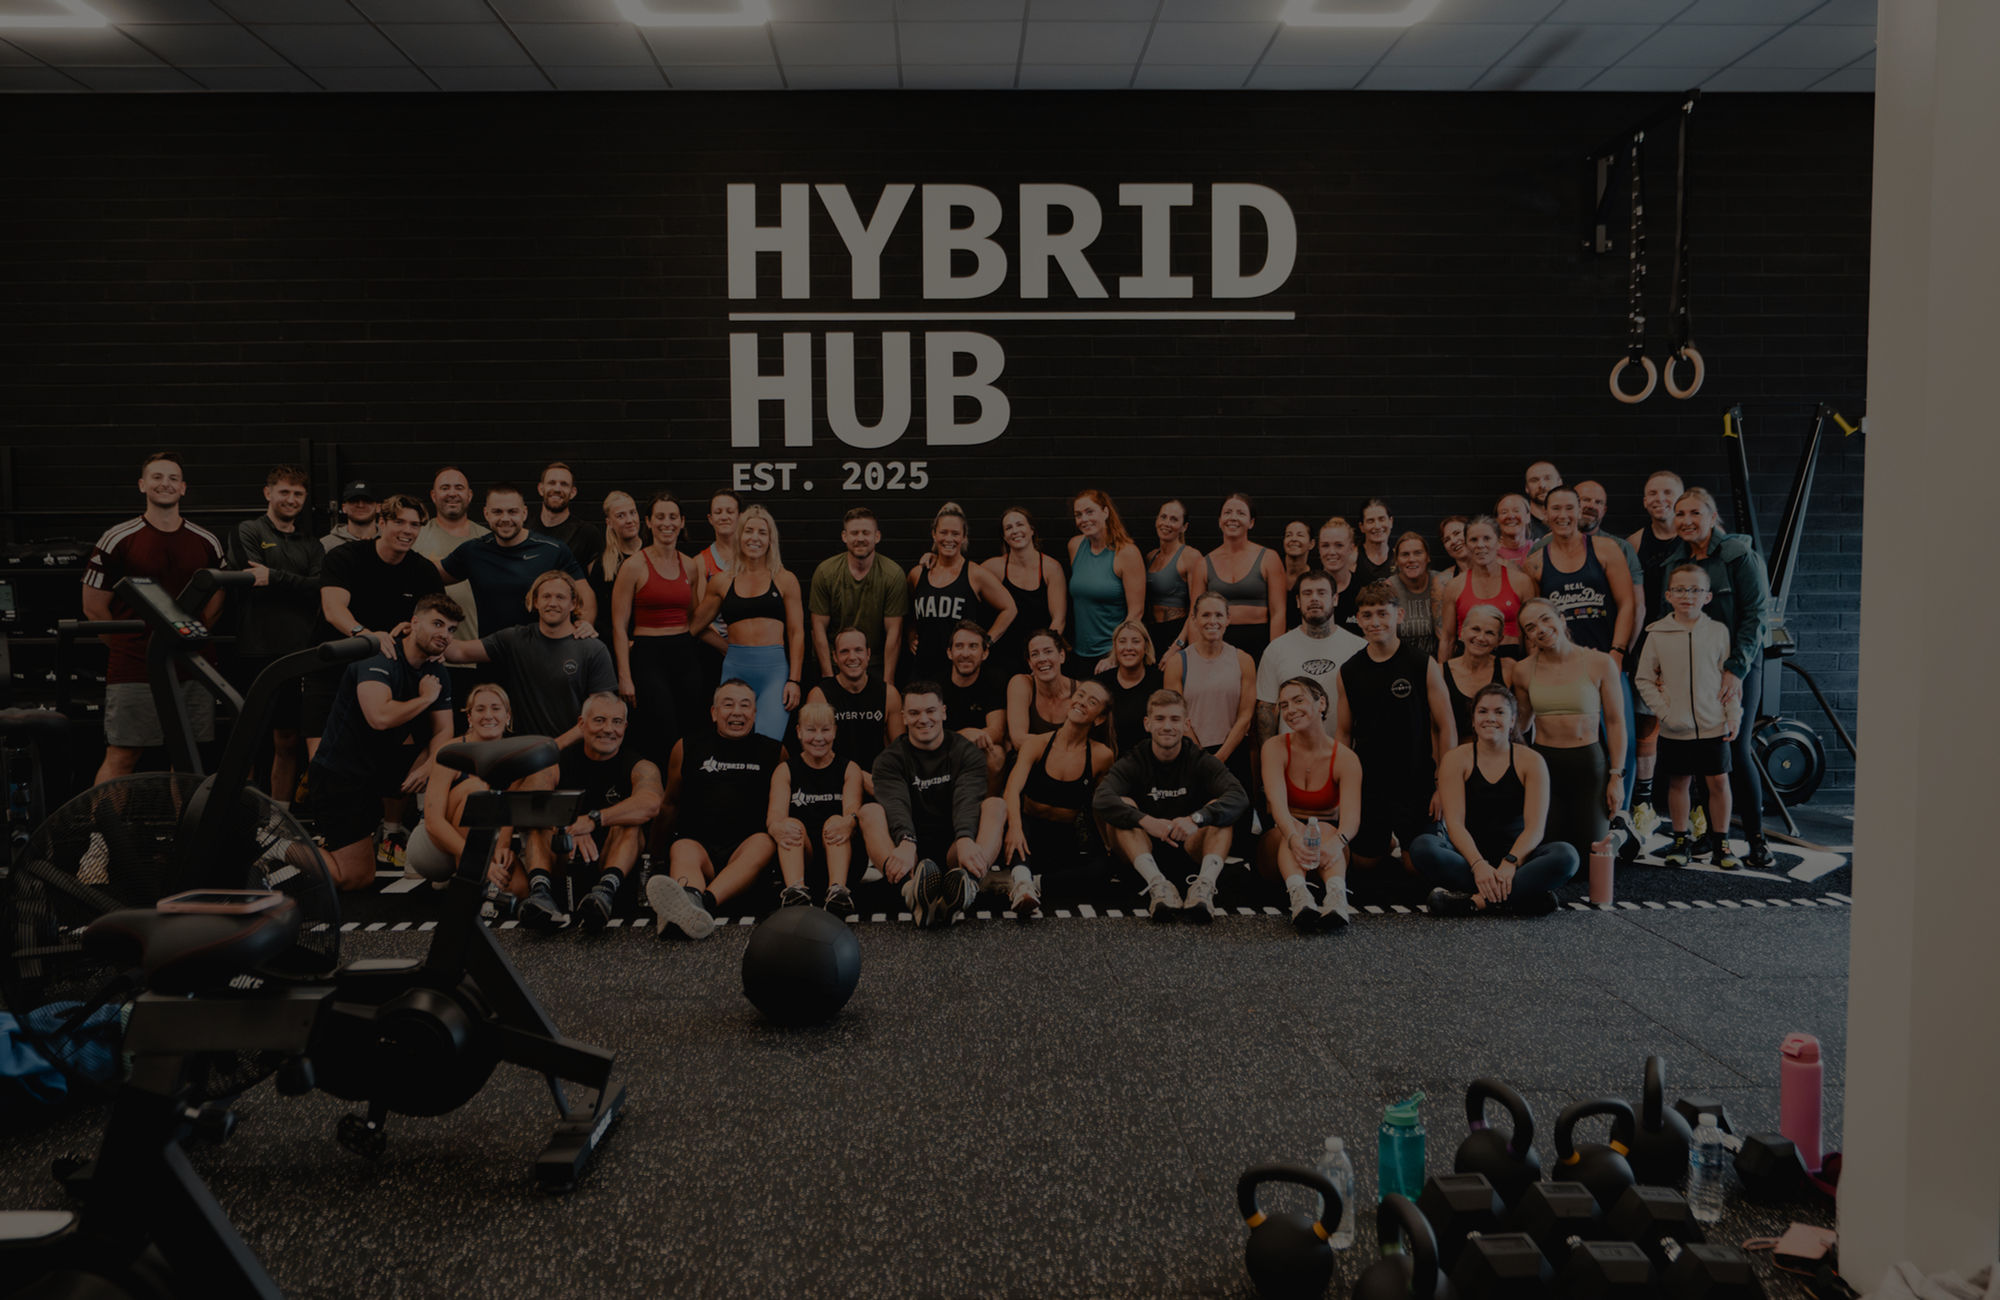
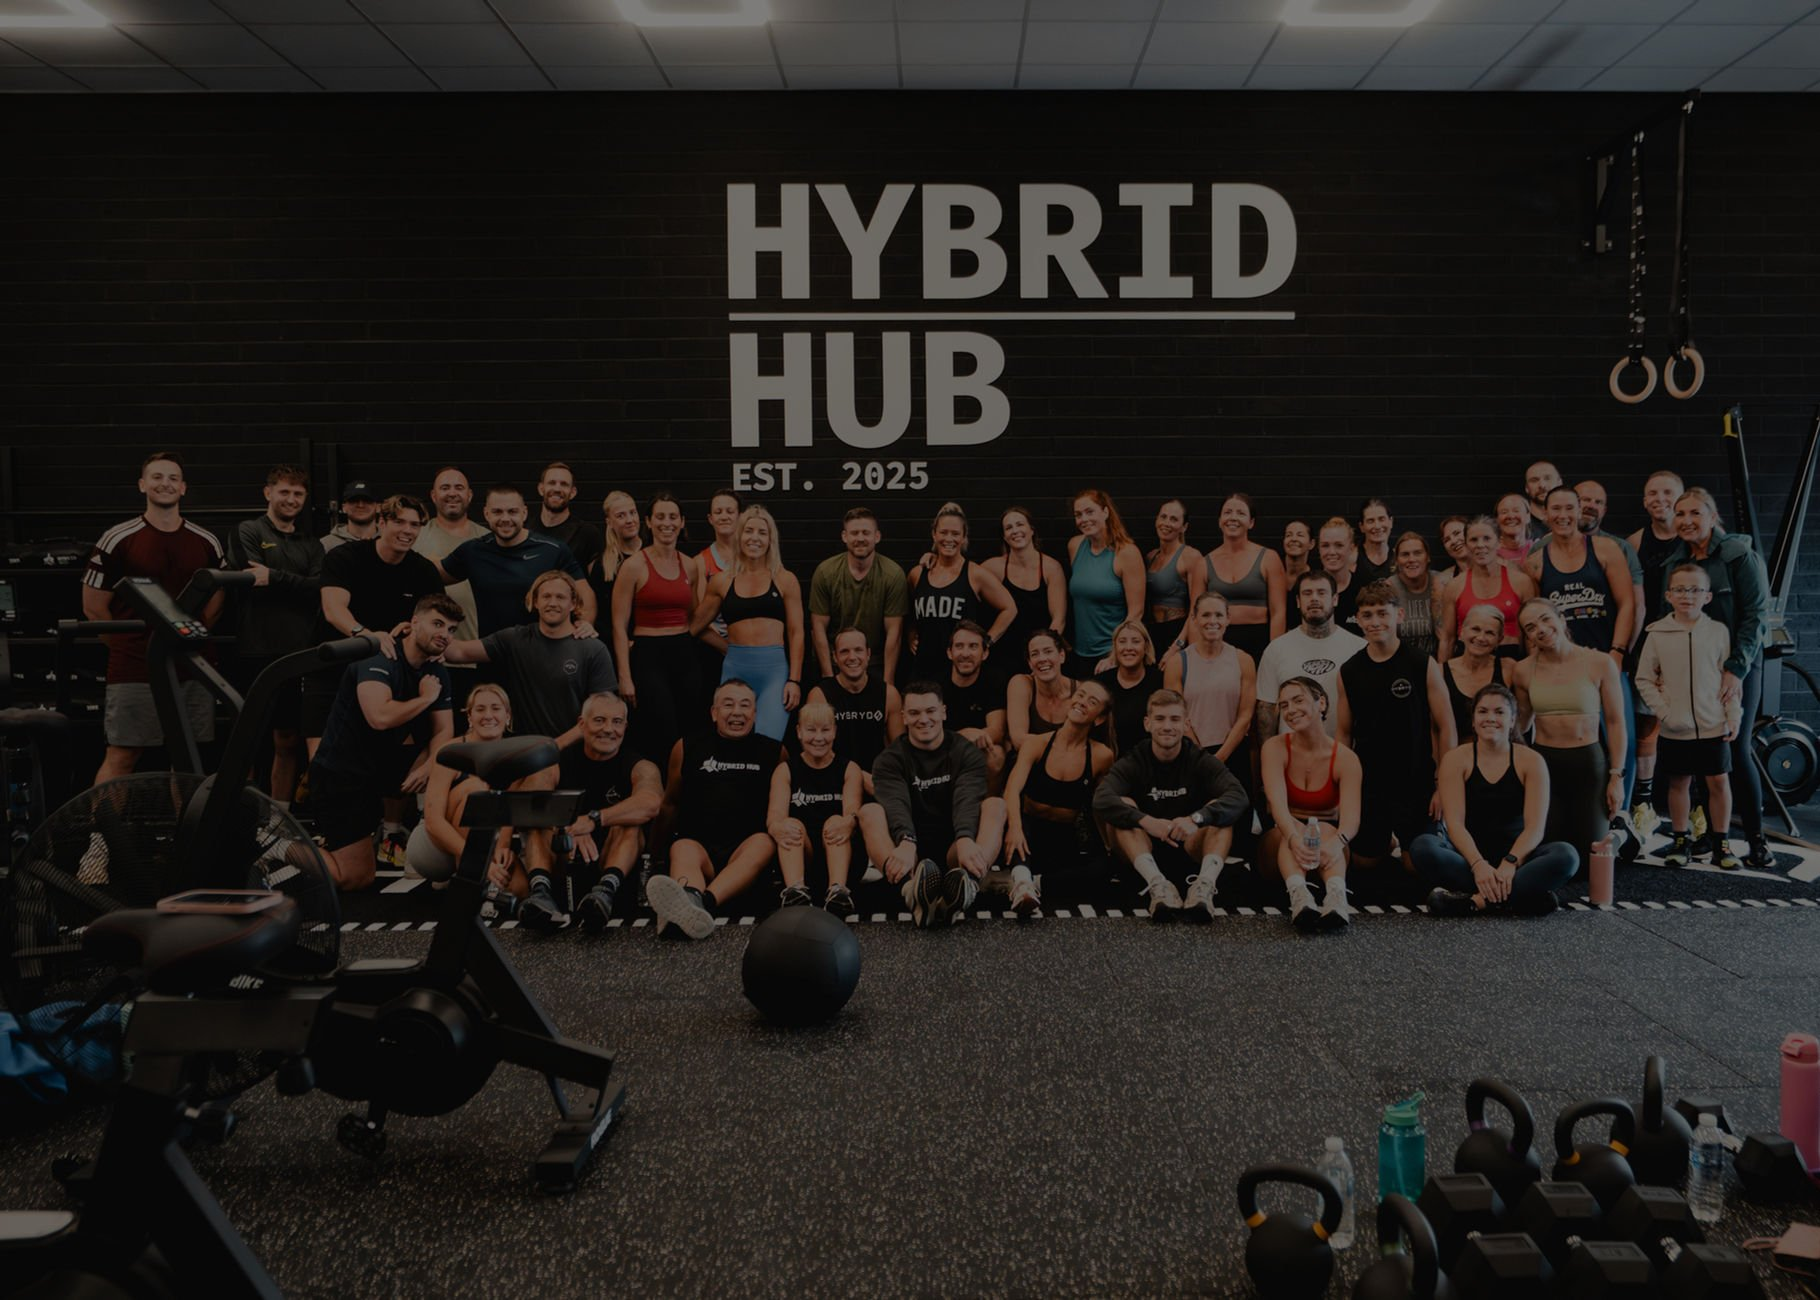
Fix home cover photo on wide desktop screens
Crop the light wall edge off the right of the hero photo, which showed
as a pale strip on wide screens, and frame the photo slightly higher so
the HYBRID HUB sign stays in view. Phone framing is unchanged.

Claude-Session: https://claude.ai/code/session_01XUDNCjuJCxJLiX5SQ1qBjY

diff --git a/src/site.css b/src/site.css
@@ -49,7 +49,7 @@ p{margin:0 0 1em}
 
 /* Hero */
 .hero{position:relative;min-height:calc(100svh - 100px);max-height:860px;display:flex;align-items:flex-end;color:#fff;isolation:isolate;overflow:hidden}
-.hero img{position:absolute;inset:0;width:100%;height:100%;object-fit:cover;object-position:center 40%;z-index:-2}
+.hero img{position:absolute;inset:0;width:100%;height:100%;object-fit:cover;object-position:58% 35%;z-index:-2}
 .hero::after{content:"";position:absolute;inset:0;z-index:-1;background:linear-gradient(180deg,rgba(0,0,0,.15) 30%,rgba(0,0,0,.75))}
 .hero .wrap{width:100%;padding-bottom:clamp(48px,8vw,96px)}
 .hero p{font-size:clamp(17px,1.6vw,20px);max-width:44ch;color:#e7e5df;margin:20px 0 32px}
